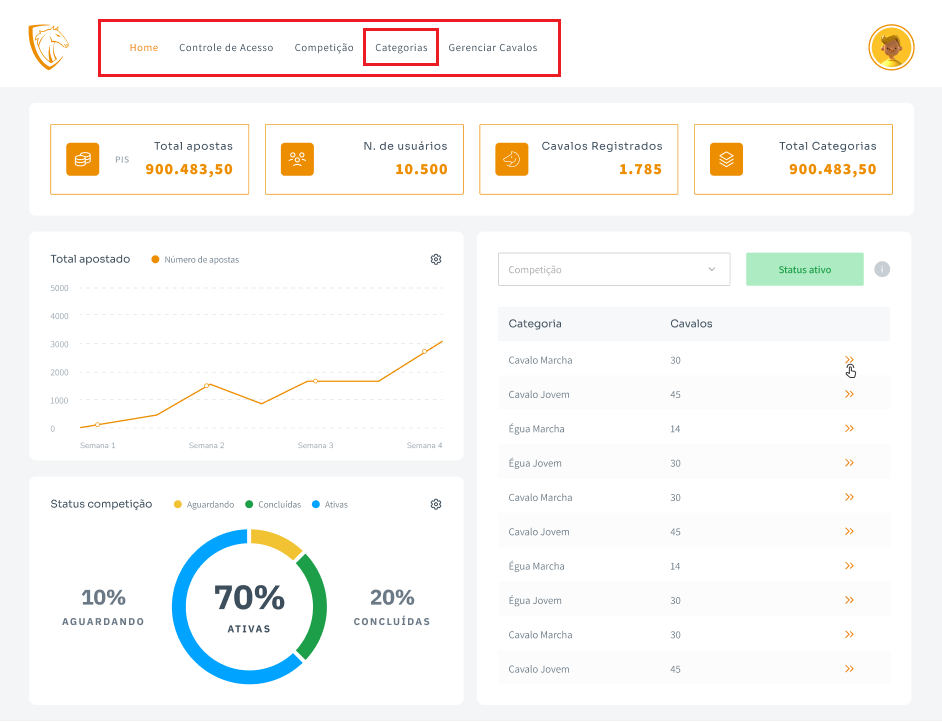
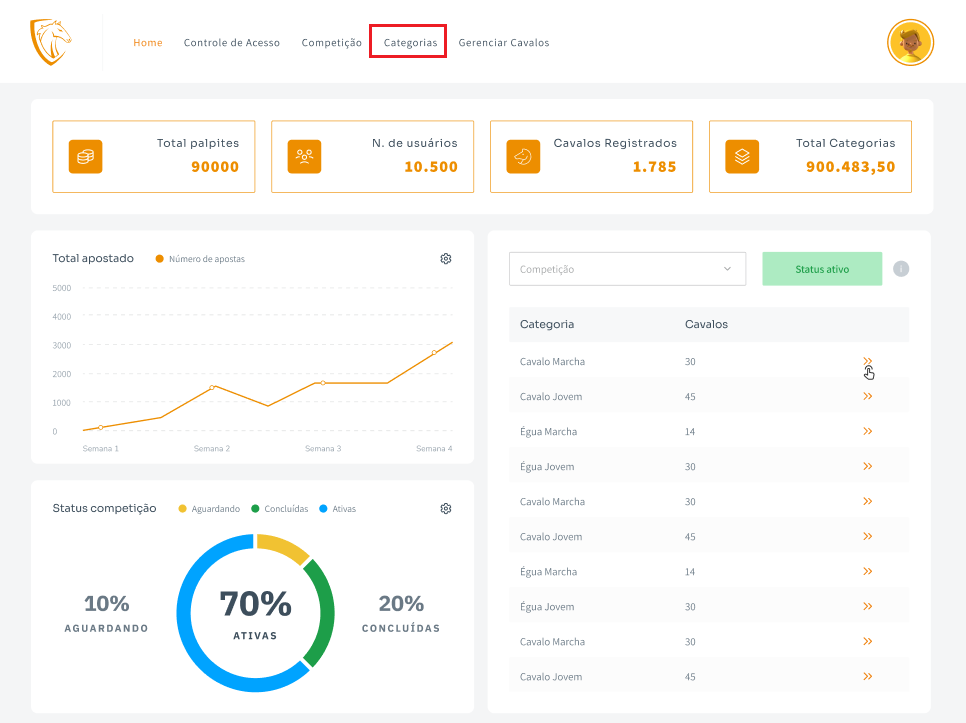
doc-update

diff --git a/docs/Manual do Backoffice/backoffice-mural.md b/docs/Manual do Backoffice/backoffice-mural.md
@@ -48,39 +48,41 @@ sidebar_position: 3
 
 - O mural é composto por:
 
-### TOTAL DE APOSTAS
+### TOTAL DE PALPITES
 
 - Area onde sera mostrada o total de palpites feito pelos jogadores do Pisteiro
 
-
+![Mural](/img/backoffice/mural6.png)
 
 ### NUMERO DE USUARIOS
 
 - Area onde sera mostrado o numero de usuários cadastrados no Pisteiro
 
-
+![Mural](/img/backoffice/mural7.png)
 
 ### CAVALOS REGISTRADOS
 
 - Area onde sera mostrado o numero de cavalos cadastrados no Pisteiro
 
-
+![Mural](/img/backoffice/mural8.png)
 
 ### TOTAL DE CATEGORIAS
 
 - Area onde sera mostrado o numero de categorias cadastradas no Pisteiro
 
-
+![Mural](/img/backoffice/mural9.png)
 
 ### GRÁFICO DE PALPITES
 
 - O gráfico mostra o numero de palpites feitos pelos jogadores do Pisteiro de acordo com o tempo
 
-
+![Mural](/img/backoffice/mural10.png)
 
 ### GRÁFICO DE STATUS DA COMPETIÇÃO
 
 - O gráfico mostra a comparação do numero de competições Aguardando, Ativas e Concluidas
+
+![Mural](/img/backoffice/mural11.png)
 
 ### STATUS DA COMPETIÇÃO SELECIONADA
 
@@ -88,3 +90,5 @@ sidebar_position: 3
     - Status da competição
     - Categorias da competição
     - Numero de cavalos cadastrados na categorias
+
+![Mural](/img/backoffice/mural12.png)
